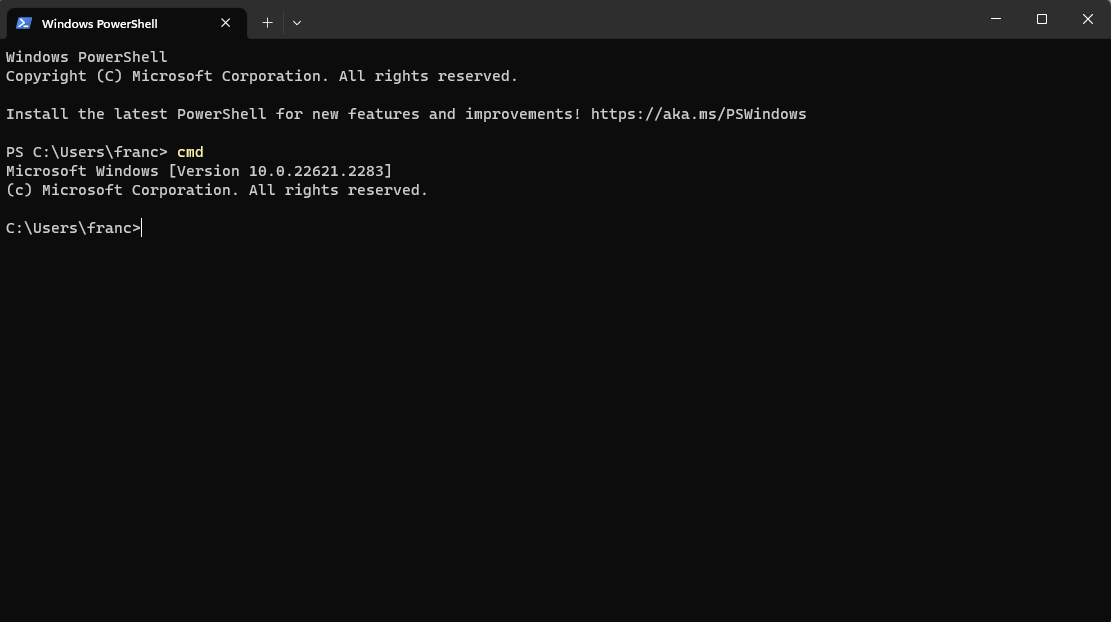
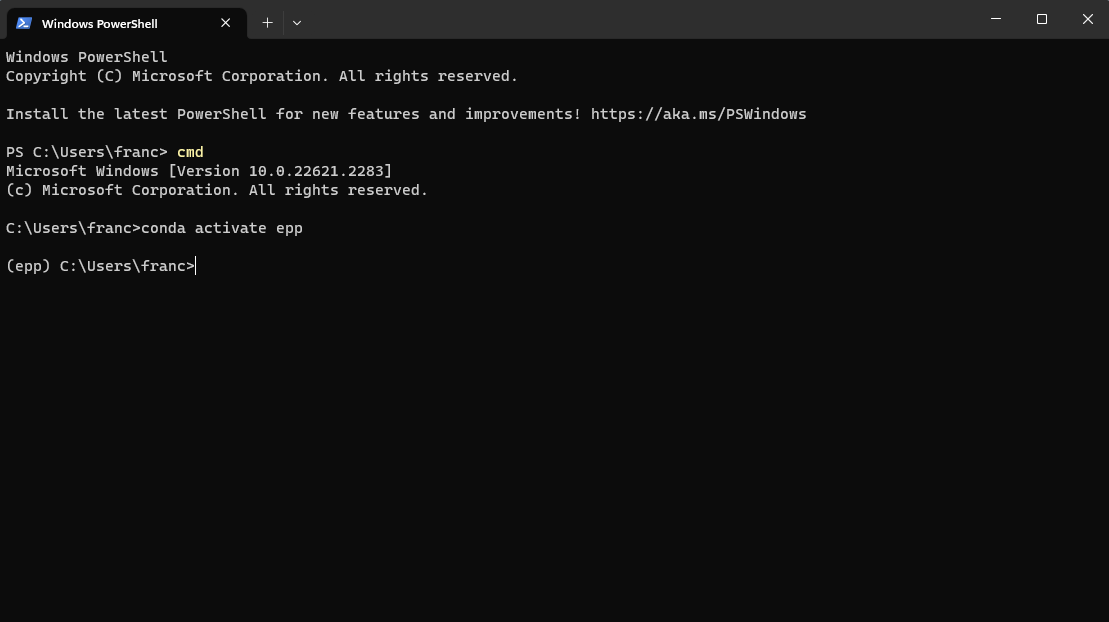
Capitalized all buttons and added clarifications.

diff --git a/src/epp_topics/python_basics/installation_windows/instructions.md b/src/epp_topics/python_basics/installation_windows/instructions.md
@@ -24,29 +24,30 @@ and Download the Windows x86_64 version of the installer in your Downloads folde
 
 ![0_download](0_download.png)
 
-Navigate to the dowload folder and double click on the Miniforge3 installer
+Navigate to the Dowloads folder and double click on the Miniforge3 installer
 
 ![1_cd.png](1_cd.png)
 
-In case Microsoft Defender tries to block the installation, click on "run anyway"
+In case Microsoft Defender tries to block the installation, click on "Run anyway"
 
 ![2_runanyway.png](2_runanyway.png)
 
-Then you will have to agree to the terms and conditions and click "next" several times
-until you get to a radio button.
+Then you will have to agree to the terms and conditions and click "Next" several times
+until you get to a radio button. Note that during these steps, you shouldn't change any
+of the default settings.
 
 ![3_installation.png](3_installation.png) ![4_installation.png](4_installation.png)
 ![5_installation.png](5_installation.png) ![6_installation.png](6_installation.png)
 
-Once you get to the radio button, select all the options and click on "install".
+Once you get to the radio button, select all the options and click on "Install".
 
 ![7_installation_path.png](7_installation_path.png)
 
-Wait until the installation is complete and finalize it by clicking "next" and "finish".
+Wait until the installation is complete and finalize it by clicking "Next" and "Finish".
 
 ![8_installation.png](8_installation.png) ![9_installation.png](9_installation.png)
 
-Before you can use mamba, **you need to restart your terminal!**. After the restart you
+Before you can use mamba, **you need to restart your terminal!** After the restart you
 can type `mamba info` to quickly check your installation. If it worked, you will see the
 mamba logo.
 
@@ -79,7 +80,7 @@ terminal and take a while. Do not interrupt it or close the terminal.
 
 ![12_mambaenvcreate.png](12_mambaenvcreate.png)
 
-When environment creation is finished, it will give you the commands to activate the
+When the environment creation is finished, it will give you the commands to activate the
 environment.
 
 ![13_done.png](13_done.png)
@@ -92,6 +93,8 @@ prompt. This is done by typing `cmd` in the console.
 
 ![14_cmd.png](14_cmd.png)
 
-Then you can activate the environment by typing `conda activate epp`
+Then you can activate the environment by typing `conda activate epp`. The console shows
+that the enviroment is active by showing the name of the enviroment in parenthesis
+before the directory you are currently in.
 
 ![15_activate.png](15_activate.png)
